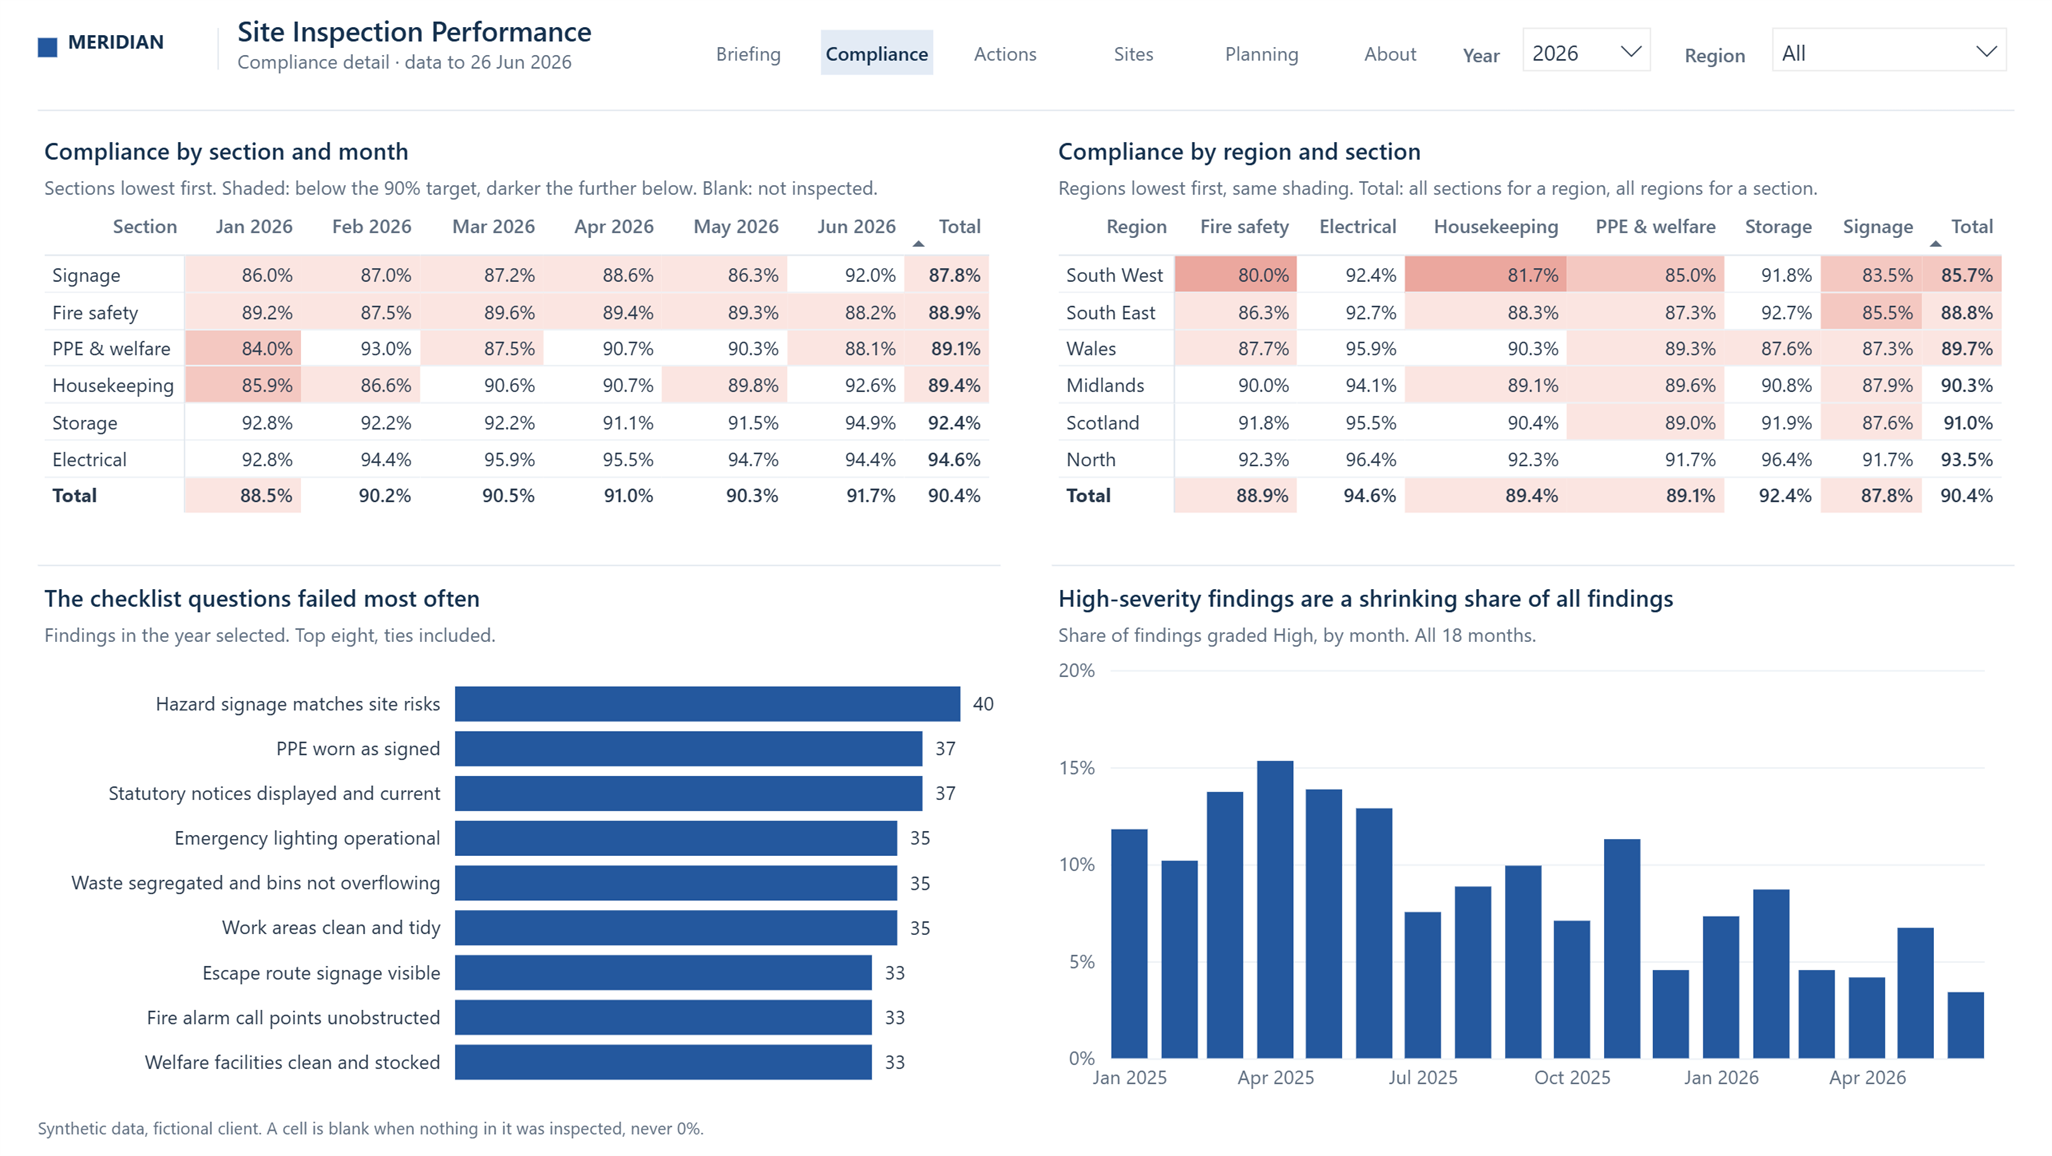
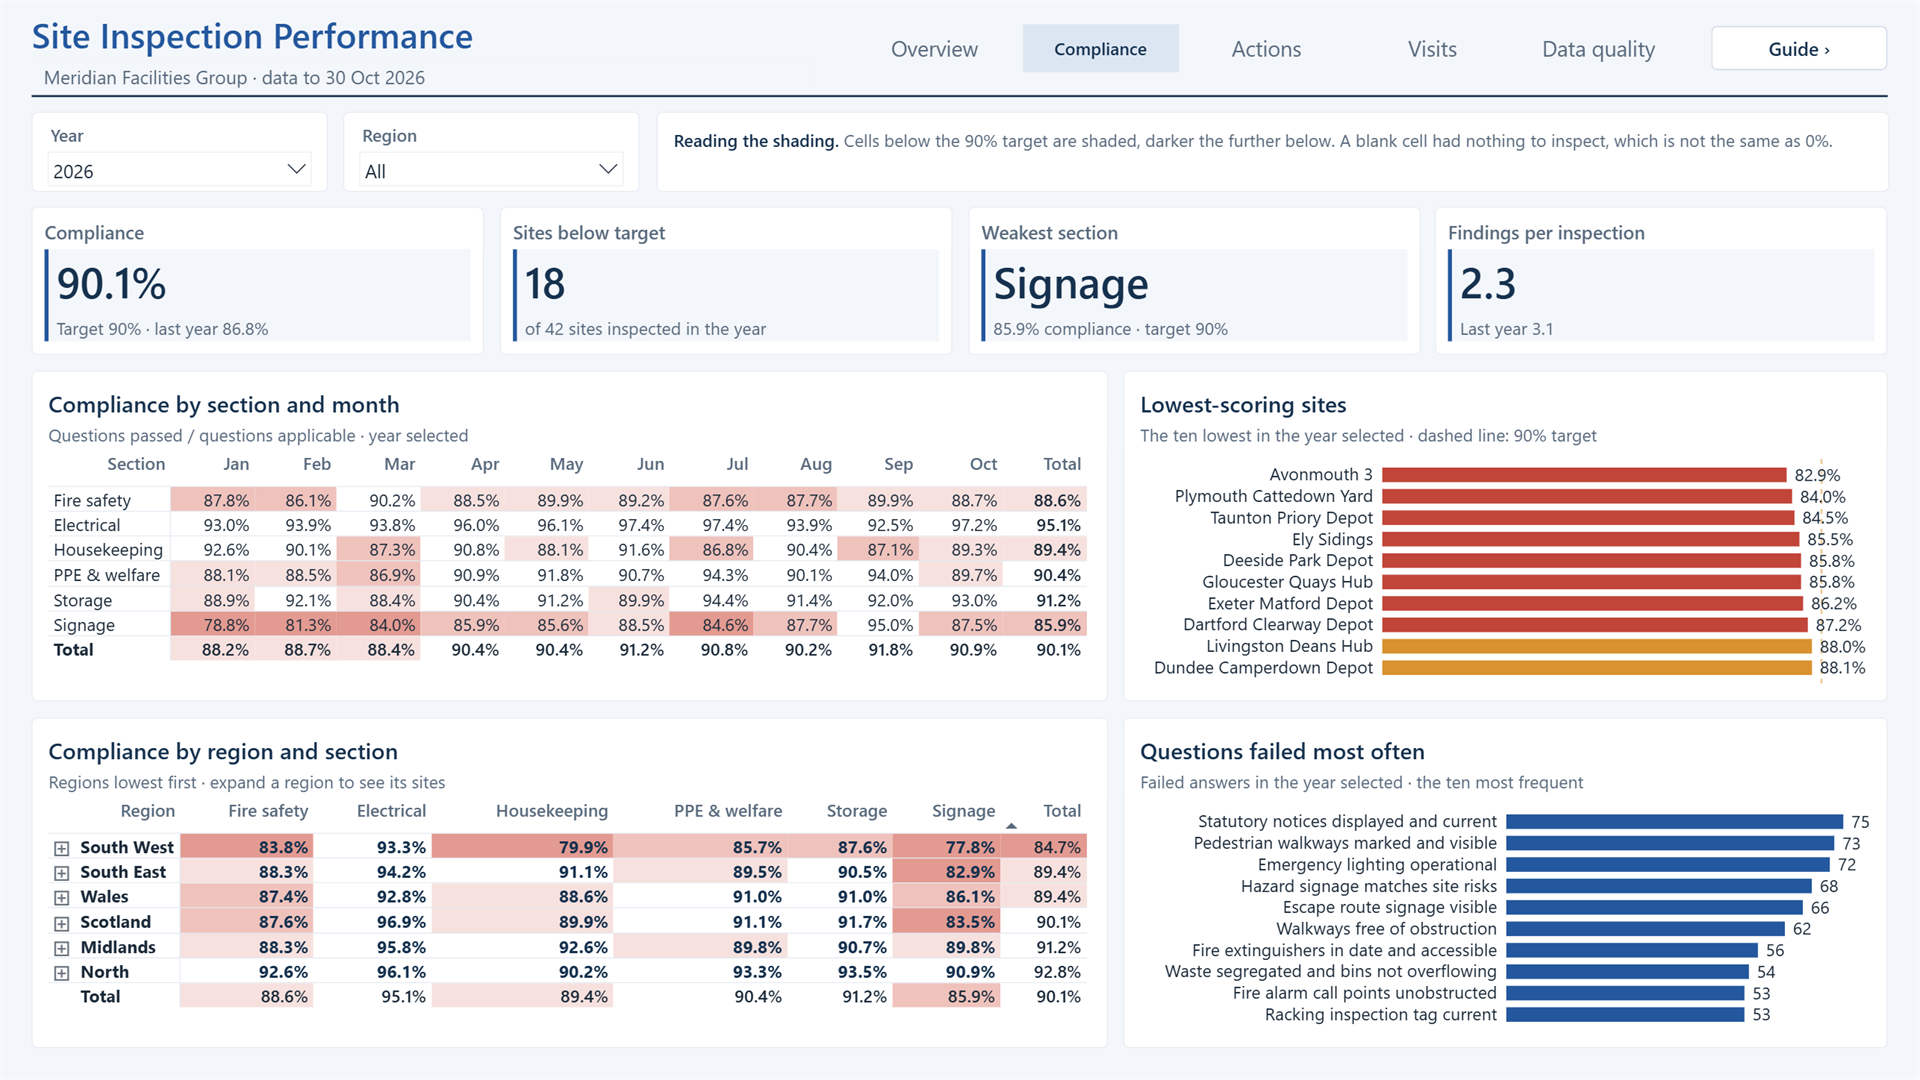
Rewrite the inspection README and replace the screenshots

diff --git a/site-inspection-performance/README.md b/site-inspection-performance/README.md
@@ -1,37 +1,50 @@
 # Site Inspection Performance
 
-A monthly briefing for the operations review of a facilities operator: 42 sites in six UK regions, 18 months of health, safety and compliance inspections. The review asks four questions. Is compliance on target, are we inspecting as planned, are corrective actions closed on time, and which sites need a visit? The first page answers them and the other pages hold the evidence.
+A monthly briefing that tells an operations team whether its inspection programme is on track, and where to act next.
 
 Synthetic data, fictional client (Meridian Facilities Group).
 
-![Briefing page](screenshots/1-briefing.png)
+![Overview page](screenshots/1-overview.png)
 
-## What it shows (data to 26 June 2026)
+## The problem
 
-- Compliance is 90.4% this year, above the 90% target and up from 86.6%. South West is the weakest region at 85.7%.
-- Follow-up is slipping. 65% of corrective actions were closed by their due date, against 77% a year earlier. Twelve are overdue and two of them have no owner.
-- Three sites are past the 60-day visit rule, Neath Yard by the widest margin at 94 days.
-- The visit gaps come from scheduling. The rule needs 22 visits a month and 52 are made, but Kingsway Depot had 12 visits this year while Ely Sidings and Taunton Priory Depot had two each.
+Meridian inspects 42 sites in six UK regions against a 24-question safety checklist. Every month the inspection app produced a new export, and the operations review spent its first hour putting the figures together instead of deciding what to do about them. Each regional manager also needed to see their own region, and only their own.
+
+## What it showed (data to 30 October 2026)
+
+- **Compliance is above target, but not everywhere.** 90.1% so far this year against 86.8% over the same months of 2025. Still, 18 of the 42 sites are below the 90% target, South West is the weakest region at 84.7% and Signage the weakest section at 85.9%, so that is where next quarter's visits and briefings go.
+- **Follow-up is slipping.** 66.8% of corrective actions were closed by their due date, against 84% a year earlier. Eleven are overdue and two of them have no owner, which the review can fix on the day.
+- **The visit gaps come from scheduling.** Inspectors make 52 visits a month where the 60-day rule needs 22, yet three sites are past the rule, Neath Yard at 94 days. Kingsway Depot has had 21 visits this year, four times what the rule needs. A fairer schedule closes the gaps without adding inspectors.
 
 ## Pages
 
-Briefing, Compliance, Actions, Sites, Planning and About, plus a Site detail page reached by drillthrough. Year and Region filter every page. The Planning page tests the visit rule from 15 to 90 days, and a dropdown on the Briefing switches the region chart between four measures.
+Overview answers the review's four questions. Compliance, Actions and Visits hold the evidence behind each answer, and Data quality shows what was found and corrected in the files. Right-click a site for its detail page. The Guide button opens a page on how to read the report.
 
-![Planning page](screenshots/5-planning.png)
+![Visits page](screenshots/4-visits.png)
 
 ## How it is built
 
-- Star schema: Inspection, Response and Action as facts, with Site, Person, Question and Date, the monthly inspection plan, and two parameter tables.
-- `Compliance %` (questions passed over questions applicable) is the one measure behind every compliance figure, so the pages always agree.
-- Every "as at" figure uses the `As-at Date` measure, the latest inspection, so the report shows the same numbers whenever it is opened.
-- On-time closure is judged against the month an action fell due, through an inactive relationship on the due date.
-- The export has five inspections exported twice, site names typed differently, two actions with no owner and one pointing at an inspection that does not exist. Power Query and the measures handle each one, and the report shows them where they matter.
+```mermaid
+flowchart LR
+  A[Monthly exports] --> C[Power Query]
+  B[Sites, checklist, plan, actions] --> C
+  C --> D[Star schema, security by region]
+  D --> E[Report]
+```
 
-The figures above were recalculated from the CSVs outside Power BI and match the report.
+- **The exports are read as the app writes them.** One file a month, one column per question. Power Query combines the folder, turns the checklist into rows and keeps the latest version of any inspection edited after it was submitted, so a new month needs no change.
+- **One compliance measure everywhere.** Questions passed over questions applicable, the same from the whole estate down to a single inspection, so the pages always agree.
+- **Security by region, with the plan to match.** Regional managers see only their region, and their inspections are measured against their region's plan.
+- **One data date.** Every "as at" figure is measured to the last inspection in the exports, so the report gives the same answers whenever it is opened.
+
+The files carry the problems real exports do: inspections exported twice after an edit, a change of date format in August 2026, site names typed differently in the actions list, actions with no owner and one pointing at an inspection that does not exist. The Data quality page counts each one.
+
+Every figure above was recalculated from the CSV files outside Power BI and matches the report.
 
 ## Opening it
 
 1. Open `Site Inspection Performance.pbip` in Power BI Desktop.
 2. In Transform data, set `Data Folder` to this project's [`data`](data/) folder and refresh.
+3. To check the security, use View as with the Regional manager role and another user from [`region_access.csv`](data/region_access.csv), for example `n.carter@meridian.example` for South West.
 
-`node generator/generate-data.js` rebuilds the CSVs. See [`generator/`](generator/).
+`node generator/generate-data.js` rebuilds the data. See [`generator/`](generator/).

diff --git a/site-inspection-performance/generator/README.md b/site-inspection-performance/generator/README.md
@@ -1,6 +1,6 @@
 # Data generator
 
-Writes the CSVs in [`../data`](../data/) for the Site Inspection Performance report.
+Writes the files in [`../data`](../data/) for the Site Inspection Performance report.
 
 ```
 node generate-data.js
@@ -10,14 +10,15 @@ No dependencies. The random numbers are seeded, so every run writes the same fil
 
 | File | Rows |
 |---|---|
+| `exports/inspections_YYYY-MM.csv` | 22 files, 1,073 rows: 1,069 inspections, 4 of them exported twice |
+| `actions.csv` | 569, one pointing at an inspection that does not exist |
 | `sites.csv` | 42 |
-| `people.csv` | 10 |
-| `questions.csv` | 24 |
-| `inspections.csv` | 868, of which 5 are duplicates |
-| `responses.csv` | 20,712 |
-| `actions.csv` | 484, one pointing at a missing inspection |
-| `monthly_targets.csv` | 18 |
+| `checklist.csv` | 24 |
+| `inspection_plan.csv` | 132, one row per region and month |
+| `region_access.csv` | 6, one regional manager per region |
 
-Dates run to 26 June 2026, the last inspection, never the real clock. The constants at the top of the script set the story: compliance improving to just above target, South West the weakest region, three sites left unvisited past the 60-day rule, and actions closing later than a year earlier.
+Each export has one row per inspection and one column per checklist question, answered `Pass`, `Fail - High`, `Fail - Medium`, `Fail - Low` or `N/A`.
 
-Problems planted on purpose: five inspections exported twice, ten site names with stray spaces or capitals, two actions with no owner, one action pointing at an inspection that does not exist, about 4% of answers marked N/A, and months with no visit at some sites.
+Dates run from January 2025 to 30 October 2026, the last inspection, never the real clock. The constants at the top of the script set the story: compliance improving to just above target, South West the weakest region and Signage the weakest section, actions closing later than a year earlier, and three sites left past the 60-day visit rule while others are visited far more often than they need.
+
+Problems planted on purpose: four inspections edited after submission and exported again the next month, dates written as dd/mm/yyyy from the August 2026 export, ten site names in the actions list with stray spaces or capitals, two overdue actions with no owner, one action pointing at an inspection that does not exist, and about 4% of answers marked N/A.
